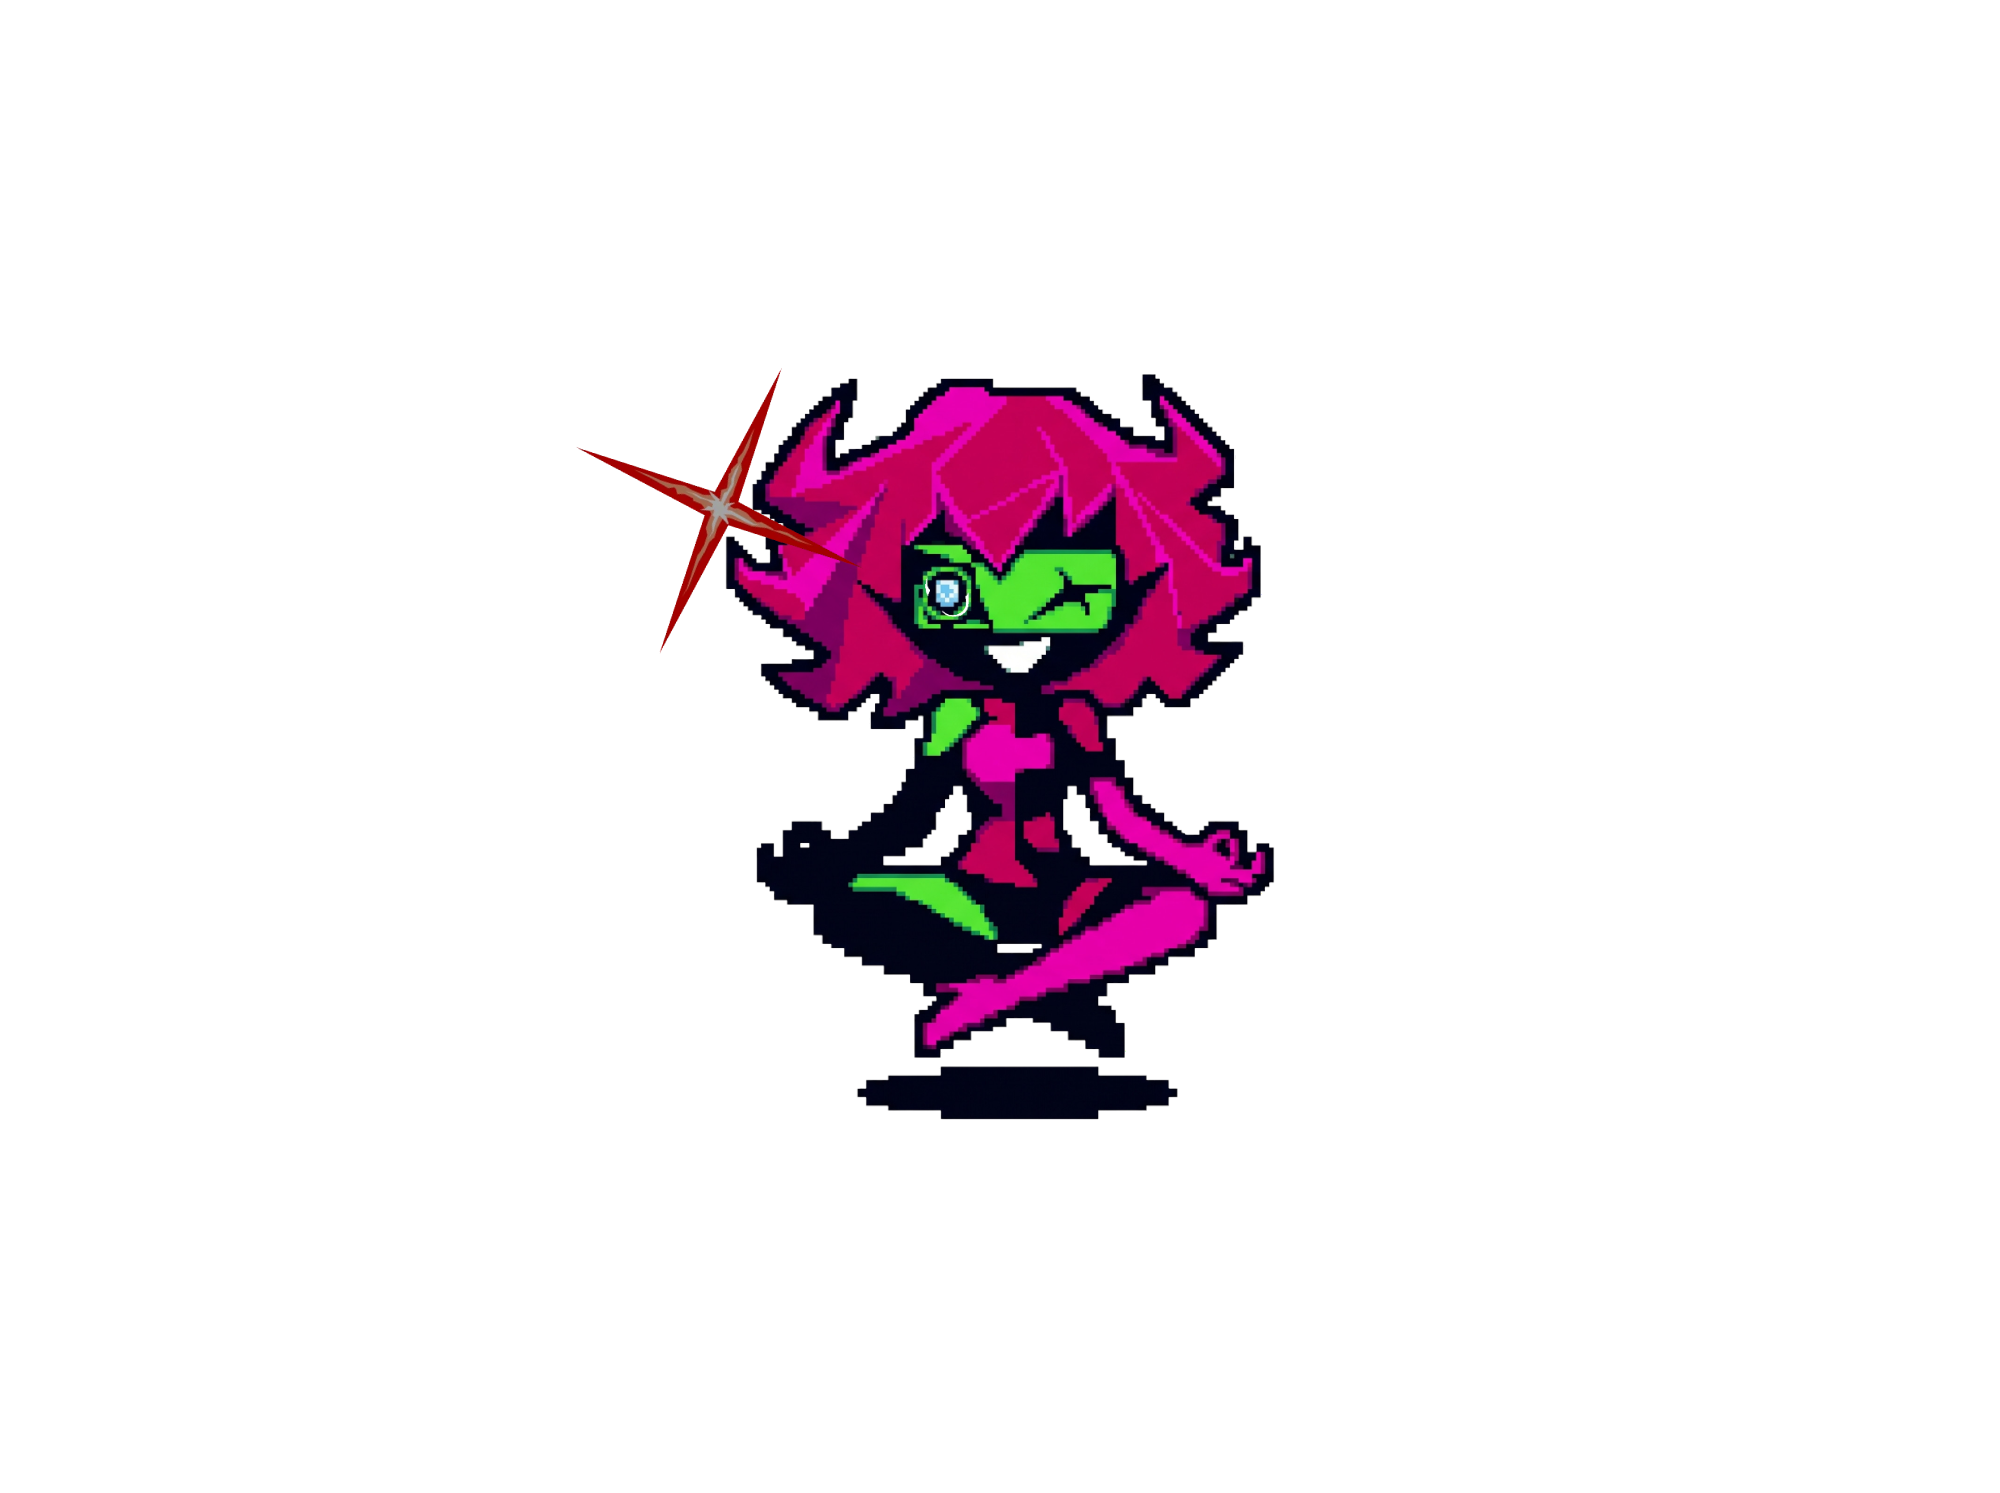
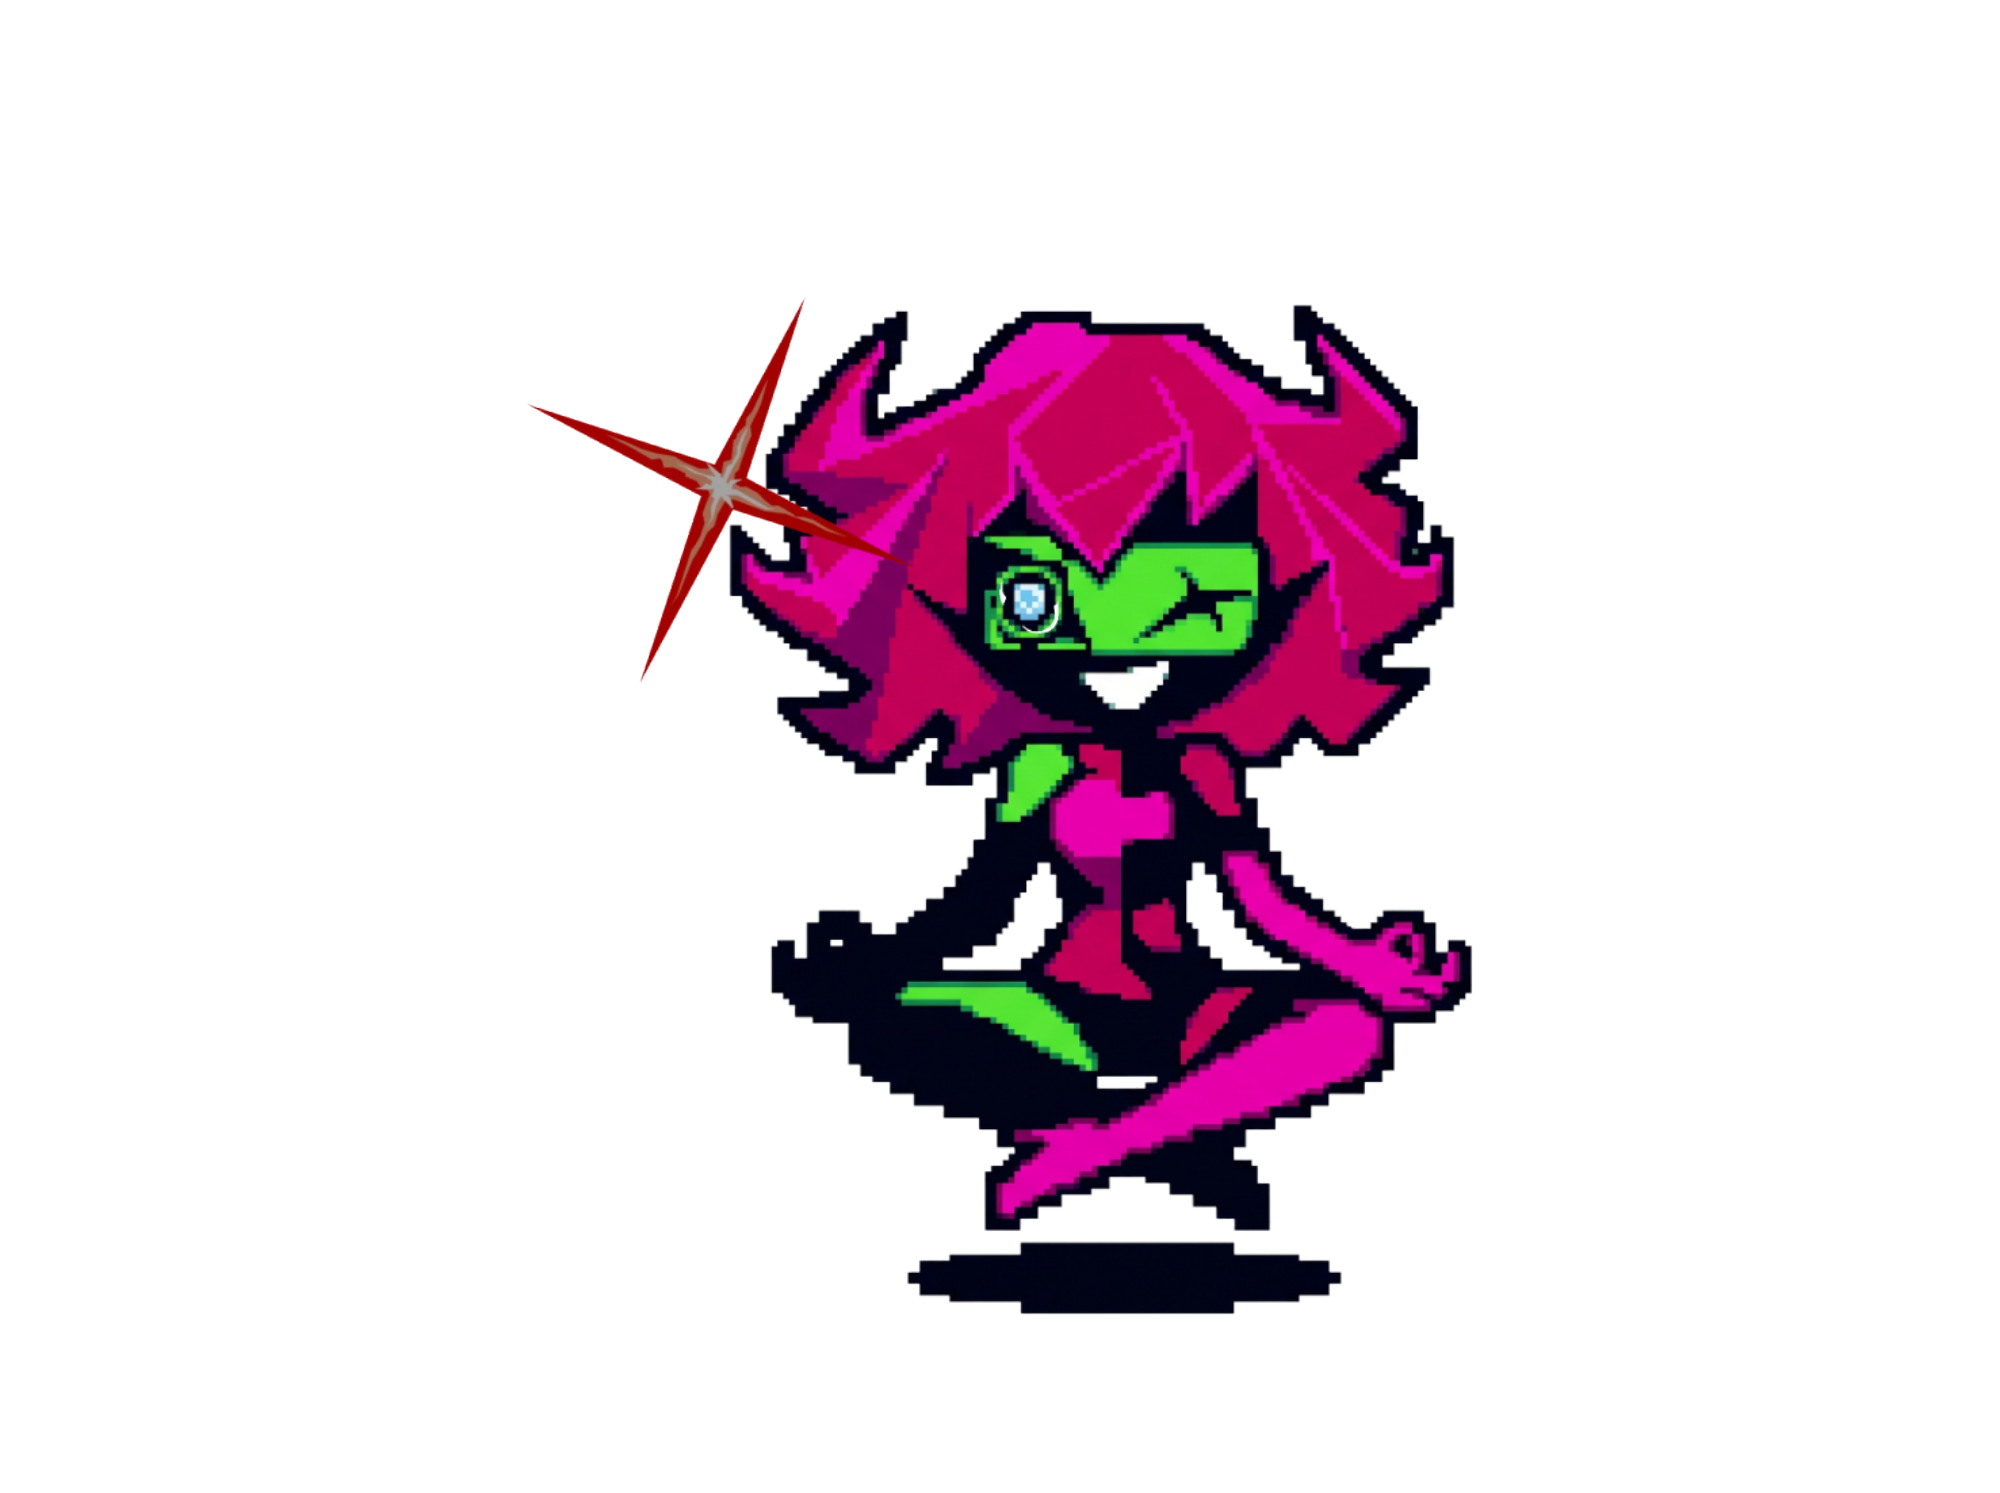
added a basic sleep animation

Changed region(s): [[0.279, 0.1849, 0.744, 0.8935]]

diff --git a/capri/desktop/window.py b/capri/desktop/window.py
@@ -62,6 +62,23 @@ class CapriWindow(QWidget):
 
         self._idle_frame_index = 0
 
+        self._sleeping_frames = []
+
+        for filename in (
+            "capri_sleeping0.png",
+            "capri_sleeping1.png",
+            "capri_sleeping2.png",
+        ):
+            image_path = Path(self.controller.assets_dir) / filename
+            pixmap = QPixmap(str(image_path))
+
+            if not pixmap.isNull():
+                self._sleeping_frames.append(pixmap)
+            else:
+                print(f"[CapriWindow] Could not load sleeping frame: {image_path}")
+
+        self._sleeping_frame_index = 0
+
         self._setup_window()
         self._setup_ui()
         self._setup_timers()
@@ -142,6 +159,10 @@ class CapriWindow(QWidget):
         self._sleep_timer.setSingleShot(True)
         self._sleep_timer.timeout.connect(self._go_to_sleep)
         self._sleep_timer.start(SLEEP_AFTER_MS)
+        #sleep animaitton i added this later so check later:
+        self._sleeping_timer = QTimer(self)
+        self._sleeping_timer.timeout.connect(self._animate_sleeping)
+        self._sleeping_timer.start(300)
 
         # Idle animation — 3-frame loop
         self._idle_timer = QTimer(self)
@@ -149,10 +170,22 @@ class CapriWindow(QWidget):
         self._idle_timer.start(150)  # ~6.7 frame updates per second
 
     # ── image display ─────────────────────────────────────────────────
+    
     def _update_image(self, path: str) -> None:
         """Load and display the correct image for Capri's current state."""
 
-        # Use the first idle animation frame whenever Capri returns to idle
+        # Sleeping animation: start from the first frame
+        if self._is_sleeping and self._sleeping_frames:
+            self._sleeping_frame_index = 0
+            pixmap = self._sleeping_frames[0].scaled(
+                WINDOW_SIZE,
+                Qt.KeepAspectRatio,
+                Qt.SmoothTransformation,
+            )
+            self.image_label.setPixmap(pixmap)
+            return
+
+        # Idle animation: start from the first frame
         if (
             self.controller.current_state() == CapriState.IDLE
             and self._idle_frames
@@ -166,7 +199,7 @@ class CapriWindow(QWidget):
             self.image_label.setPixmap(pixmap)
             return
 
-        # Display the normal image for other states: happy, blink, sleeping
+        # Normal image for other states: happy, blink, etc.
         if path:
             pixmap = QPixmap(path)
             if not pixmap.isNull():
@@ -180,6 +213,28 @@ class CapriWindow(QWidget):
 
         # No image found — draw the placeholder
         self._draw_placeholder()
+
+    
+    def _animate_sleeping(self) -> None:
+        if (
+            not self._is_sleeping
+            or not self._sleeping_frames
+        ):
+            return
+
+        self._sleeping_frame_index = (
+            self._sleeping_frame_index + 1
+        ) % len(self._sleeping_frames)
+
+        pixmap = self._sleeping_frames[
+            self._sleeping_frame_index
+        ].scaled(
+            WINDOW_SIZE,
+            Qt.KeepAspectRatio,
+            Qt.SmoothTransformation,
+        )
+
+        self.image_label.setPixmap(pixmap)
 
     def _draw_placeholder(self) -> None:
         """Drawn when art files aren't present yet."""
